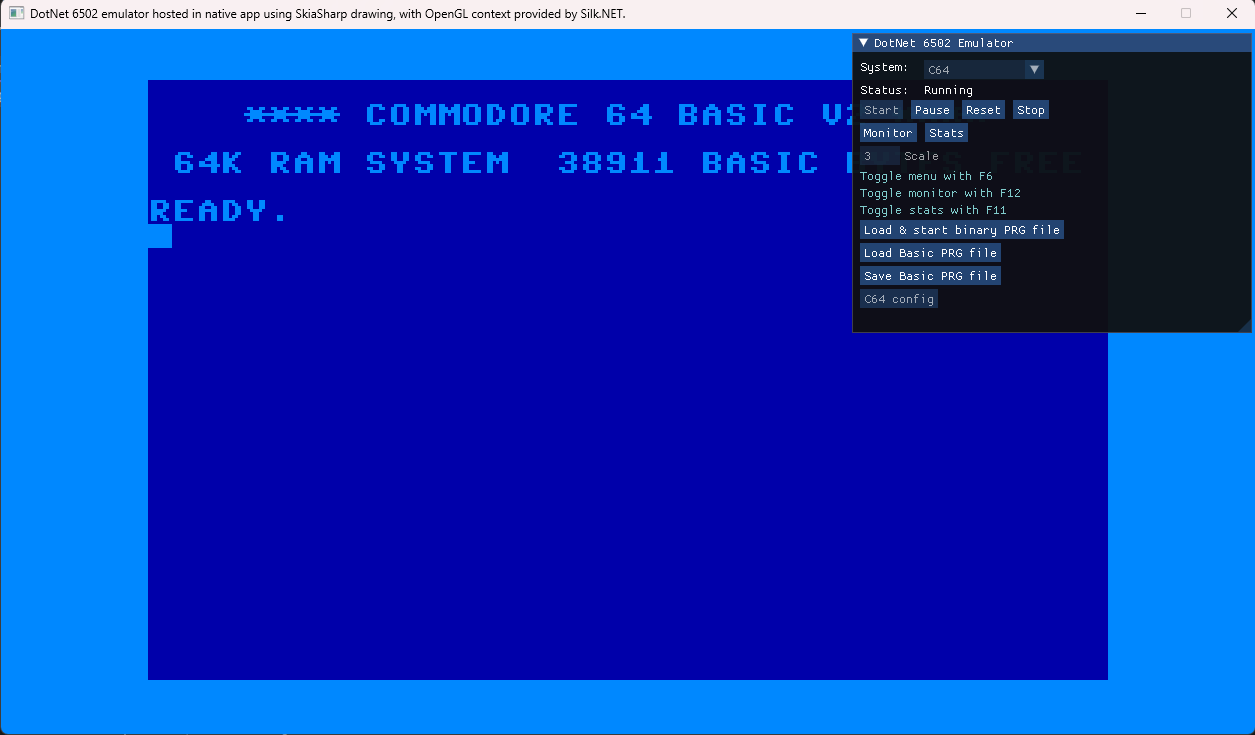
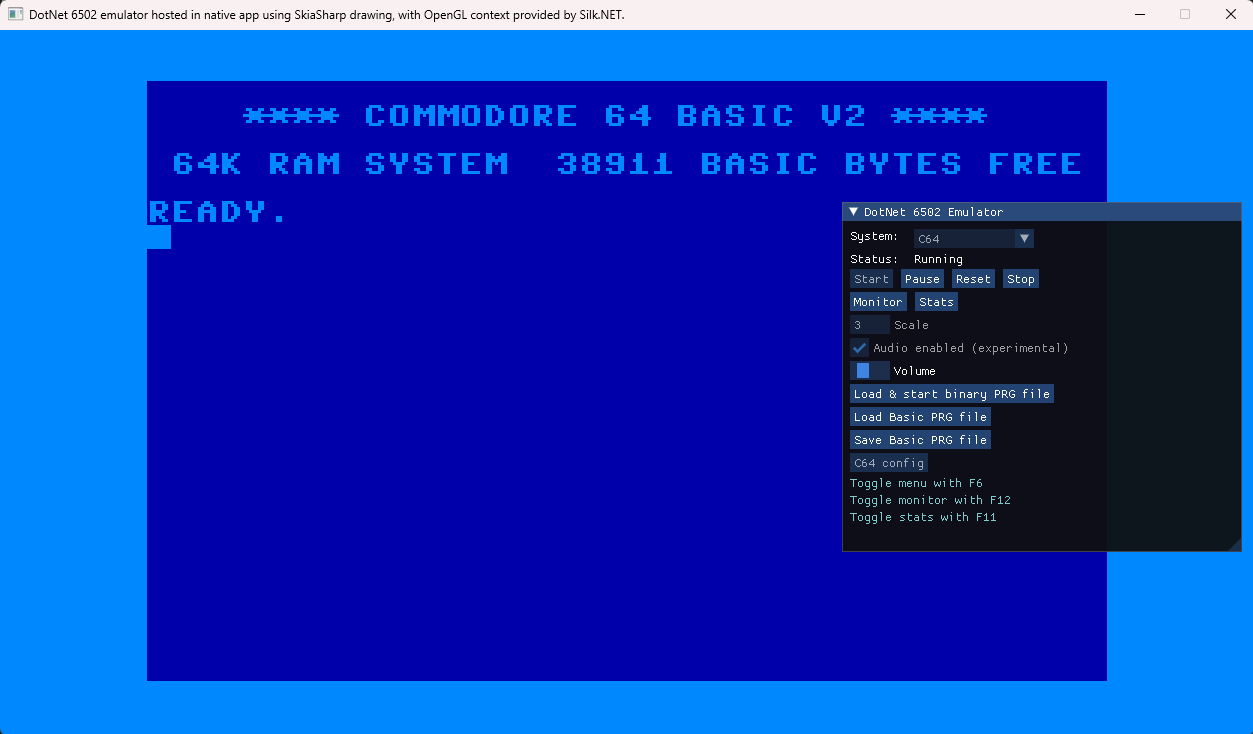
Update docs

diff --git a/Highbyte.DotNet6502.App/APPS_SKIA_NATIVE.md b/Highbyte.DotNet6502.App/APPS_SKIA_NATIVE.md
@@ -15,6 +15,8 @@ A directory containing the C64 ROM files (Kernal, Basic, Chargen) is supplied by
 
 Rendering of raster lines for border and background colors. 
 
+Generation of sound via NAudio with custom OpenAL (Silk.NET) provider (for cross platform compatibility).
+
 # System: Generic computer 
 TODO
 
